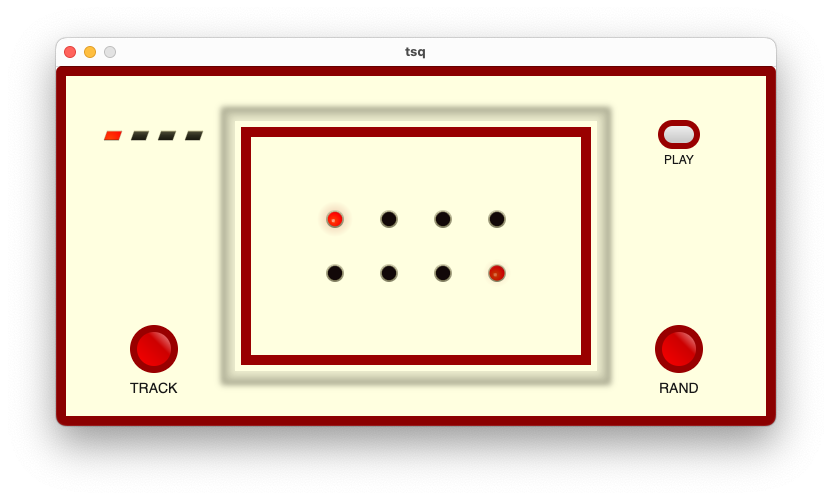
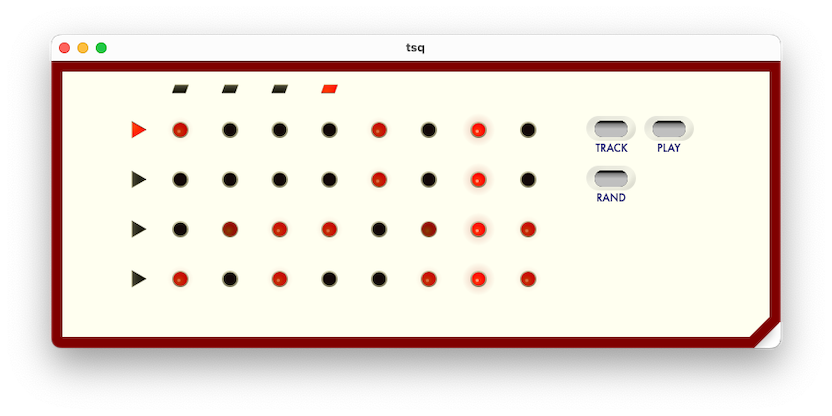
refactor(ui): 4 tracks, 8 steps page

Changed region(s): [[0.0625, 0.0625, 0.9375, 0.875], [0.375, 0.4062, 0.6562, 0.4688], [0.375, 0.5312, 0.6562, 0.5938]]

diff --git a/src/ui.rs b/src/ui.rs
@@ -4,26 +4,16 @@ use crate::sequencer::{HihatVoice, STEPS, SharedState, random_pattern};
 use crate::widgets::{EllipseButton, Heart, HeartState, Pip, PipState, StepDot, StepDotState};
 
 const NUM_TRACKS: usize = 4;
-const HALF: usize = STEPS / 2;
 
 const STYLE: &str = r#"
-    .page-stack {
-
-    }
-    .steps {
-
-    }
-    .controls {
-
-    }
     .container {
-        border: 12px solid Wheat;
+        border: 12px solid Maroon;
 
         corner-bottom-right-shape: bevel;
         corner-bottom-right-radius: 10%;
         /* h-shadow v-shadow blur spread color inset */
         shadow: 0px 16px 8px -8px #ccc;
-        background-color: Beige;
+        background-color: Ivory;
     }
 "#;
 
@@ -115,15 +105,6 @@ fn step_color_hihat(step: &Option<HihatVoice>, is_current: bool) -> StepDotState
 
 fn bool_step_row(cx: &mut Context, steps: &[bool], current: usize, range: std::ops::Range<usize>) {
     HStack::new(cx, move |cx| {
-        let heart_state = if current == 0 {
-            HeartState::On
-        } else {
-            HeartState::Off
-        };
-        Heart::new(cx, heart_state)
-            .width(Pixels(18.0))
-            .height(Pixels(18.0));
-
         for i in range {
             let step_dot_state = step_color_bool(steps[i], i == current);
             StepDot::new(cx, step_dot_state)
@@ -131,9 +112,8 @@ fn bool_step_row(cx: &mut Context, steps: &[bool], current: usize, range: std::o
                 .height(Pixels(18.0));
         }
     })
-    .class("steps")
     .alignment(Alignment::Center)
-    .width(Pixels(300.0))
+    // .width(Pixels(450.0))
     .height(Pixels(54.0))
     .horizontal_gap(Pixels(36.0));
 }
@@ -145,15 +125,6 @@ fn hihat_step_row(
     range: std::ops::Range<usize>,
 ) {
     HStack::new(cx, move |cx| {
-        let heart_state = if current == 0 {
-            HeartState::On
-        } else {
-            HeartState::Off
-        };
-        Heart::new(cx, heart_state)
-            .width(Pixels(18.0))
-            .height(Pixels(18.0));
-
         for i in range {
             let step_dot_state = step_color_hihat(&steps[i], i == current);
             StepDot::new(cx, step_dot_state)
@@ -161,9 +132,8 @@ fn hihat_step_row(
                 .height(Pixels(18.0));
         }
     })
-    .class("steps")
     .alignment(Alignment::Center)
-    .width(Pixels(300.0))
+    // .width(Pixels(450.0))
     .height(Pixels(54.0))
     .horizontal_gap(Pixels(36.0));
 }
@@ -223,58 +193,35 @@ pub fn run(shared: SharedState) -> Result<(), ApplicationError> {
         .build(cx);
 
         HStack::new(cx, |cx| {
-            Binding::new(cx, current_step, move |cx| {
-                Binding::new(cx, selected_track, move |cx| {
-                    let current = current_step.get();
-                    let selected = selected_track.get();
-                    // central part
-                    VStack::new(cx, move |cx| {
-                        // steps
-                        match selected {
-                            0 => {
-                                Binding::new(cx, kick, move |cx| {
-                                    let k = kick.get();
-                                    bool_step_row(cx, &k, current, 0..HALF);
-                                    bool_step_row(cx, &k, current, HALF..STEPS);
-                                });
-                            }
-                            1 => {
-                                Binding::new(cx, snare, move |cx| {
-                                    let s = snare.get();
-                                    bool_step_row(cx, &s, current, 0..HALF);
-                                    bool_step_row(cx, &s, current, HALF..STEPS);
-                                });
-                            }
-                            2 => {
-                                Binding::new(cx, hihat, move |cx| {
-                                    let h = hihat.get();
-                                    hihat_step_row(cx, &h, current, 0..HALF);
-                                    hihat_step_row(cx, &h, current, HALF..STEPS);
-                                });
-                            }
-                            3 => {
-                                Binding::new(cx, tone, move |cx| {
-                                    let t = tone.get();
-                                    bool_step_row(cx, &t, current, 0..HALF);
-                                    bool_step_row(cx, &t, current, HALF..STEPS);
-                                });
-                            }
-                            _ => unreachable!(),
-                        }
-                    })
-                    .class("steps")
-                    .width(Stretch(3.0))
-                    .padding_top(Pixels(18.0))
-                    .alignment(Alignment::TopLeft);
-                });
+            Binding::new(cx, selected_track, move |cx| {
+                let selected = selected_track.get();
+
+                // tracks
+                VStack::new(cx, move |cx| {
+                    for i in 0..NUM_TRACKS {
+                        let heart_state = if selected == i {
+                            HeartState::On
+                        } else {
+                            HeartState::Off
+                        };
+                        Heart::new(cx, heart_state)
+                            .width(Pixels(18.0))
+                            .height(Pixels(18.0));
+                    }
+                })
+                .alignment(Alignment::TopCenter)
+                .width(Pixels(36.0))
+                .padding_top(Pixels(66.0))
+                .vertical_gap(Pixels(36.0));
             });
 
-            // controls
-            VStack::new(cx, |cx| {
-                // page stack
-                HStack::new(cx, |cx| {
-                    Binding::new(cx, current_step, move |cx| {
-                        let current = current_step.get();
+            Binding::new(cx, current_step, move |cx| {
+                let current = current_step.get();
+
+                // sequencer
+                VStack::new(cx, move |cx| {
+                    // page stack
+                    HStack::new(cx, |cx| {
                         for i in 0..NUM_TRACKS {
                             let state = if i == current / 2 {
                                 PipState::On
@@ -283,49 +230,77 @@ pub fn run(shared: SharedState) -> Result<(), ApplicationError> {
                             };
                             Pip::new(cx, state).width(Pixels(18.0)).height(Pixels(9.0));
                         }
+                    })
+                    .alignment(Alignment::Center)
+                    .width(Pixels(216.0))
+                    .height(Pixels(36.0))
+                    .horizontal_gap(Pixels(36.0));
+                    // steps
+                    Binding::new(cx, kick, move |cx| {
+                        let k = kick.get();
+                        bool_step_row(cx, &k, current, 0..STEPS);
+                    });
+
+                    Binding::new(cx, snare, move |cx| {
+                        let s = snare.get();
+                        bool_step_row(cx, &s, current, 0..STEPS);
+                    });
+
+                    Binding::new(cx, hihat, move |cx| {
+                        let h = hihat.get();
+                        hihat_step_row(cx, &h, current, 0..STEPS);
+                    });
+
+                    Binding::new(cx, tone, move |cx| {
+                        let t = tone.get();
+                        bool_step_row(cx, &t, current, 0..STEPS);
                     });
                 })
-                .class("page-stack")
-                .alignment(Alignment::Left)
-                .width(Pixels(154.0))
-                .height(Pixels(44.0))
-                .horizontal_gap(Pixels(4.0));
+                .alignment(Alignment::TopLeft)
+                .width(Pixels(432.0))
+                .padding_top(Pixels(12.0));
+            });
 
+            VStack::new(cx, |_cx| {}).width(Pixels(36.0));
+
+            // controls
+            VStack::new(cx, |cx| {
                 HStack::new(cx, |cx| {
                     EllipseButton::new("TRACK")
-                        .width(Pixels(80.0))
-                        .height(Pixels(64.0))
+                        .width(Pixels(54.0))
+                        .height(Pixels(54.0))
                         .build(cx, |ex| ex.emit(AppEvent::NextTrack));
 
                     EllipseButton::new("PLAY")
-                        .width(Pixels(80.0))
-                        .height(Pixels(64.0))
+                        .width(Pixels(54.0))
+                        .height(Pixels(54.0))
                         .build(cx, |ex| ex.emit(AppEvent::TogglePlay));
                 })
                 .alignment(Alignment::Left)
-                .width(Pixels(170.0))
-                .height(Pixels(64.0));
+                .width(Pixels(135.0))
+                .height(Pixels(54.0))
+                .horizontal_gap(Pixels(9.0));
 
                 HStack::new(cx, |cx| {
                     EllipseButton::new("RAND")
-                        .width(Pixels(80.0))
-                        .height(Pixels(64.0))
+                        .width(Pixels(54.0))
+                        .height(Pixels(54.0))
                         .build(cx, |ex| ex.emit(AppEvent::Randomize));
                 })
                 .alignment(Alignment::Left)
-                .width(Pixels(170.0))
-                .height(Pixels(64.0));
+                .width(Pixels(135.0))
+                .height(Pixels(54.0))
+                .horizontal_gap(Pixels(9.0));
             })
-            .class("controls")
-            .width(Stretch(1.0))
-            .padding_bottom(Pixels(18.0))
-            .alignment(Alignment::BottomRight);
+            .width(Pixels(135.0))
+            .padding_top(Pixels(48.0))
+            .alignment(Alignment::TopRight);
         })
         .class("container")
         .alignment(Alignment::BottomCenter);
     })
     .title("tsq")
-    .inner_size((840, 360))
+    .inner_size((792, 312))
     .resizable(true)
     .run()
 }

diff --git a/src/widgets/ellipse_button.rs b/src/widgets/ellipse_button.rs
@@ -2,8 +2,8 @@ use vizia::prelude::*;
 
 const STYLE: &str = r#"
     .ellipse-recess {
-        width: 62px;
-        height: 32px;
+        width: 54px;
+        height: 27px;
         corner-radius: 50%;
         shadow:
             3px 3px 12px 0px #999999 inset,
@@ -11,7 +11,7 @@ const STYLE: &str = r#"
     }
 
     .ellipse-button {
-        width: 48px;
+        width: 36px;
         height: 18px;
         corner-radius: 50%;
         background-image: linear-gradient(to top, #bfbfbf 50%, #7f7f7f 80%, #000000 90%);
@@ -24,7 +24,7 @@ const STYLE: &str = r#"
 
     .ellipse-label {
         font-family: "Futura", sans-serif;
-        font-family: 9px;
+        font-size: 11px;
         color: MidnightBlue;
     }
 "#;
@@ -82,9 +82,8 @@ impl EllipseButton {
 
             Label::new(cx, label).class("ellipse-label");
         })
-        .width(self.width)
-        .height(self.height)
         .alignment(Alignment::BottomCenter)
-        .gap(Pixels(6.0));
+        .width(self.width)
+        .height(self.height);
     }
 }
